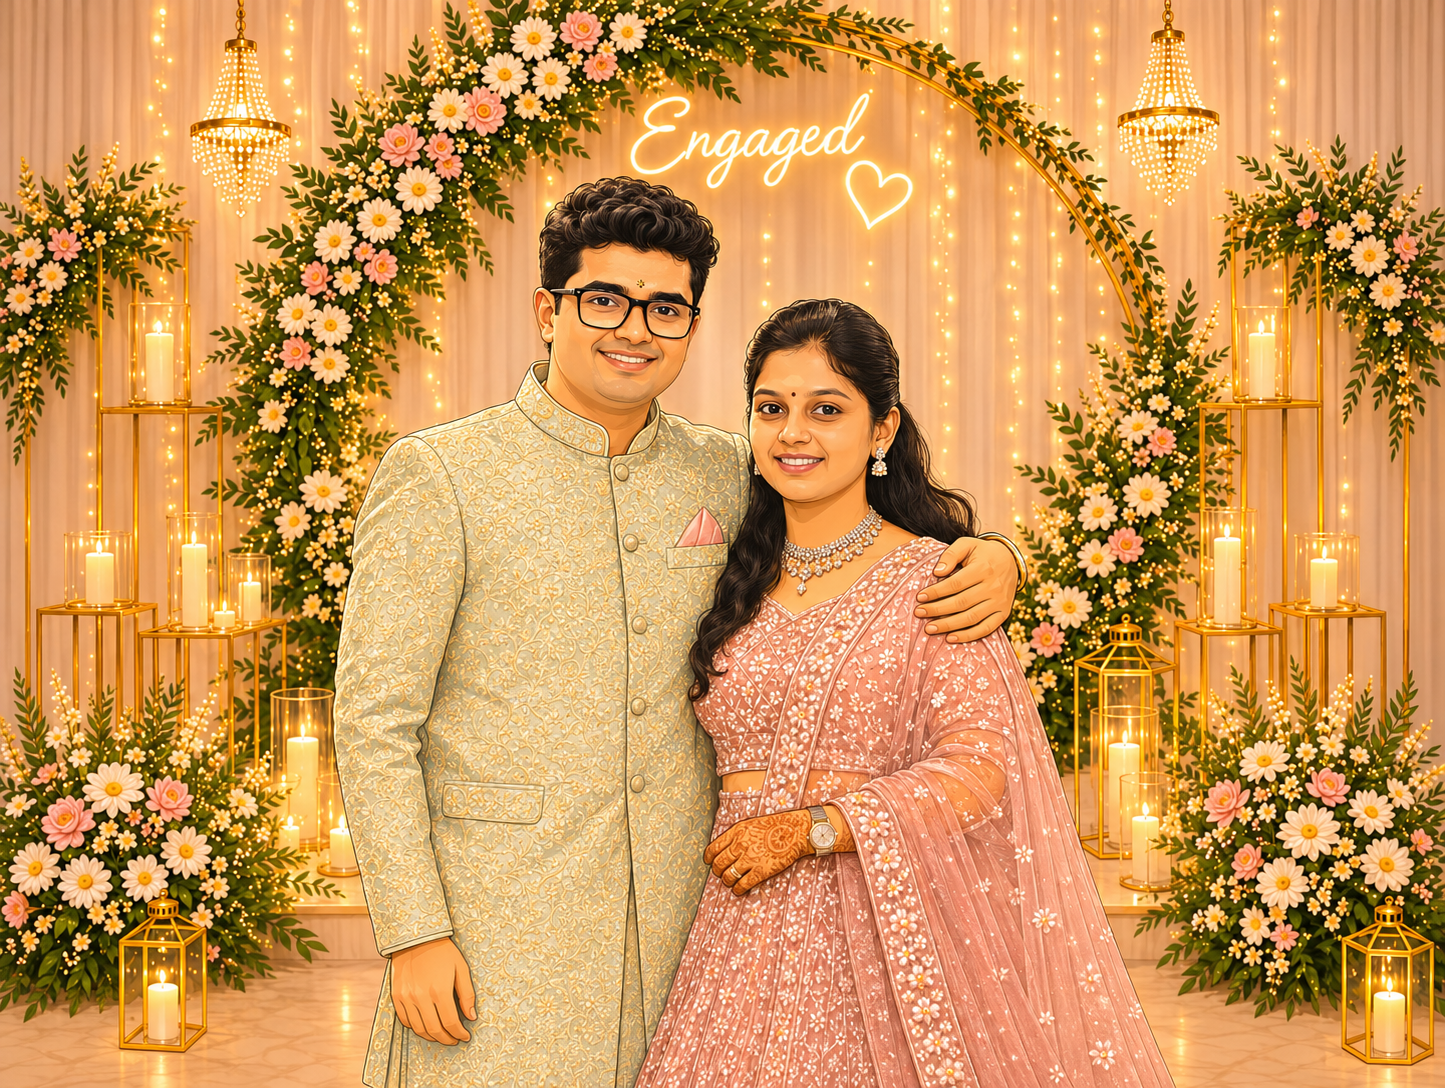
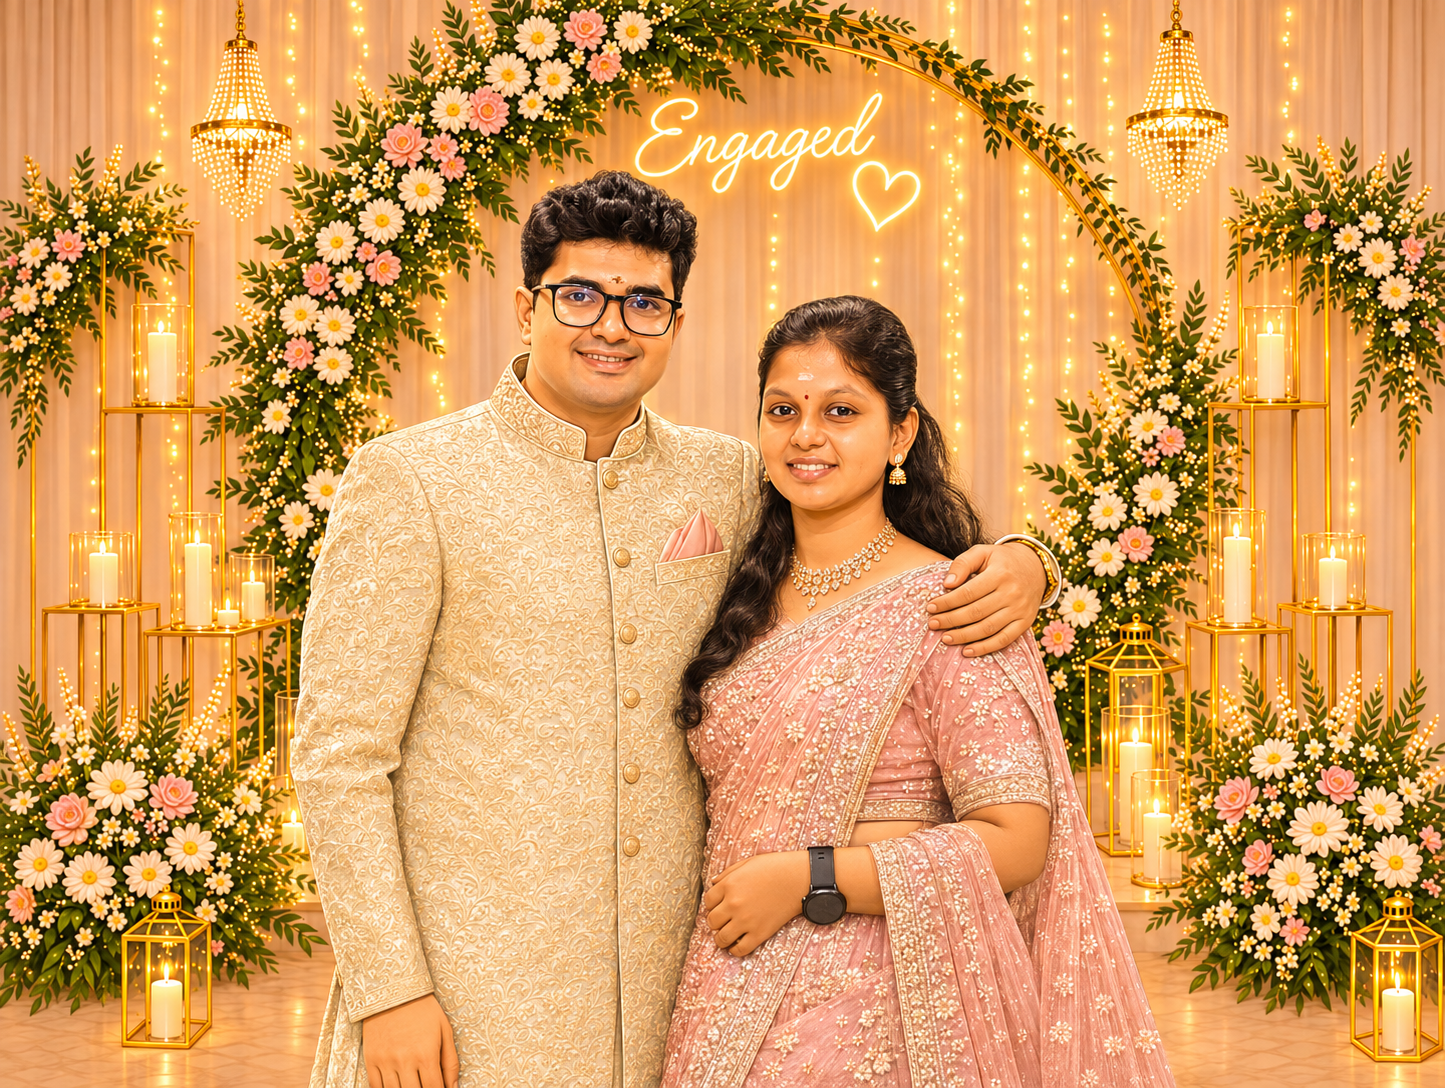
hanuman added

diff --git a/src/components/HeroSection.tsx b/src/components/HeroSection.tsx
@@ -1,6 +1,6 @@
-import React, { useState } from 'react';
+import React, { useState, useRef } from 'react';
 import { motion, AnimatePresence } from 'framer-motion';
-import { Sparkles, Eye, X, Film, Layers } from 'lucide-react';
+import { Sparkles, Eye, X, Film, RotateCw } from 'lucide-react';
 import { weddingConfig } from '../config/wedding';
 import { FloatingPetals } from './ui/FloatingPetals';
 
@@ -8,12 +8,100 @@ export const HeroSection: React.FC = () => {
   const { couple, invocation, dates } = weddingConfig;
   const [showLightbox, setShowLightbox] = useState(false);
   const [showAnimeModal, setShowAnimeModal] = useState(false);
-  const [activeCardSide, setActiveCardSide] = useState<'front' | 'back'>('front');
+  const [isFlipped, setIsFlipped] = useState(false);
 
   const frontCardImage = '/assets/images/invitation-card.jpg';
   const backCardImage = '/assets/images/invitation-card-back.jpg';
-  const currentCardImage = activeCardSide === 'front' ? frontCardImage : backCardImage;
+  const currentCardImage = isFlipped ? backCardImage : frontCardImage;
   const animeVideoSrc = couple.animeVideo || '/assets/images/couple-namaste.gif';
+
+  // Swipe / Drag gesture tracking for mobile touch & desktop mouse
+  const touchStartXRef = useRef<number | null>(null);
+  const touchStartYRef = useRef<number | null>(null);
+  const isMouseDownRef = useRef<boolean>(false);
+  const mouseStartXRef = useRef<number | null>(null);
+  const mouseStartYRef = useRef<number | null>(null);
+  const hasSwipedRef = useRef<boolean>(false);
+
+  const SWIPE_THRESHOLD = 45; // pixels needed to trigger 3D flip
+
+  // Touch handlers
+  const handleTouchStart = (e: React.TouchEvent) => {
+    touchStartXRef.current = e.touches[0].clientX;
+    touchStartYRef.current = e.touches[0].clientY;
+    hasSwipedRef.current = false;
+  };
+
+  const handleTouchMove = (e: React.TouchEvent) => {
+    if (touchStartXRef.current === null || touchStartYRef.current === null) return;
+    const currentX = e.touches[0].clientX;
+    const currentY = e.touches[0].clientY;
+    const deltaX = currentX - touchStartXRef.current;
+    const deltaY = currentY - touchStartYRef.current;
+
+    // Detect predominantly horizontal swipe
+    if (Math.abs(deltaX) > Math.abs(deltaY) && Math.abs(deltaX) > SWIPE_THRESHOLD) {
+      if (!hasSwipedRef.current) {
+        if (deltaX > SWIPE_THRESHOLD && !isFlipped) {
+          // Swipe RIGHT -> flip to back (Page 2)
+          setIsFlipped(true);
+          hasSwipedRef.current = true;
+        } else if (deltaX < -SWIPE_THRESHOLD && isFlipped) {
+          // Swipe LEFT -> flip back to front (Page 1)
+          setIsFlipped(false);
+          hasSwipedRef.current = true;
+        }
+      }
+    }
+  };
+
+  const handleTouchEnd = () => {
+    touchStartXRef.current = null;
+    touchStartYRef.current = null;
+    hasSwipedRef.current = false;
+  };
+
+  // Mouse drag handlers for desktop
+  const handleMouseDown = (e: React.MouseEvent) => {
+    isMouseDownRef.current = true;
+    mouseStartXRef.current = e.clientX;
+    mouseStartYRef.current = e.clientY;
+    hasSwipedRef.current = false;
+  };
+
+  const handleMouseMove = (e: React.MouseEvent) => {
+    if (!isMouseDownRef.current || mouseStartXRef.current === null || mouseStartYRef.current === null) return;
+    const deltaX = e.clientX - mouseStartXRef.current;
+    const deltaY = e.clientY - mouseStartYRef.current;
+
+    if (Math.abs(deltaX) > Math.abs(deltaY) && Math.abs(deltaX) > SWIPE_THRESHOLD) {
+      if (!hasSwipedRef.current) {
+        if (deltaX > SWIPE_THRESHOLD && !isFlipped) {
+          // Swipe RIGHT -> flip to back (Page 2)
+          setIsFlipped(true);
+          hasSwipedRef.current = true;
+        } else if (deltaX < -SWIPE_THRESHOLD && isFlipped) {
+          // Swipe LEFT -> flip back to front (Page 1)
+          setIsFlipped(false);
+          hasSwipedRef.current = true;
+        }
+      }
+    }
+  };
+
+  const handleMouseUp = () => {
+    isMouseDownRef.current = false;
+    mouseStartXRef.current = null;
+    mouseStartYRef.current = null;
+    hasSwipedRef.current = false;
+  };
+
+  // Card click toggle (when clicked without significant dragging)
+  const handleCardClick = () => {
+    if (!hasSwipedRef.current) {
+      setIsFlipped((prev) => !prev);
+    }
+  };
 
   return (
     <section className="relative min-h-[92vh] flex flex-col items-center justify-center pt-10 pb-20 md:pt-16 md:pb-28 px-4 overflow-hidden bg-transparent">
@@ -148,14 +236,14 @@ export const HeroSection: React.FC = () => {
           </div>
         </motion.div>
 
-        {/* 4. Prominent Invitation Card Section with 2-Page Switcher (Req #3) */}
+        {/* 4. 3D Two-Sided Flip Invitation Card with Swipe/Drag Interaction */}
         <motion.div
           initial={{ opacity: 0, y: 30 }}
           animate={{ opacity: 1, y: 0 }}
           transition={{ delay: 1.9, duration: 1.1, ease: [0.16, 1, 0.3, 1] }}
-          className="relative w-full max-w-xl mx-auto px-4 mb-8"
+          className="relative w-full max-w-lg mx-auto px-2 sm:px-4 mb-8"
         >
-          {/* Card Label & Page Switcher */}
+          {/* Card Label & Flip Status Indicator */}
           <div className="flex flex-col sm:flex-row items-center justify-between gap-3 mb-4 px-2">
             <div className="flex items-center gap-2">
               <Sparkles className="w-4 h-4 text-[#C68A4C]" />
@@ -169,56 +257,140 @@ export const HeroSection: React.FC = () => {
               </div>
             </div>
 
-            {/* Front / Back Card Switcher Tabs */}
-            <div className="flex items-center gap-1.5 p-1 rounded-full bg-[#EFE4CF] border border-[#C68A4C]/40 text-xs font-tamil">
-              <button
-                type="button"
-                onClick={() => setActiveCardSide('front')}
-                className={`px-3.5 py-1.5 rounded-full transition-all font-semibold ${
-                  activeCardSide === 'front'
-                    ? 'bg-[#B8860B] text-white shadow-md'
-                    : 'text-[#5C2D0C] hover:text-[#B8860B]'
-                }`}
-              >
-                பக்கம் 1 (மணமக்கள்)
-              </button>
-              <button
-                type="button"
-                onClick={() => setActiveCardSide('back')}
-                className={`px-3.5 py-1.5 rounded-full transition-all font-semibold ${
-                  activeCardSide === 'back'
-                    ? 'bg-[#B8860B] text-white shadow-md'
-                    : 'text-[#5C2D0C] hover:text-[#B8860B]'
-                }`}
-              >
-                பக்கம் 2 (நிகழ்வுகள்)
-              </button>
-            </div>
+            {/* Interactive Flip Status & Click Toggle */}
+            <button
+              type="button"
+              onClick={() => setIsFlipped((prev) => !prev)}
+              className="inline-flex items-center gap-2 px-4 py-1.5 rounded-full bg-[#FAF0DC] hover:bg-[#F5E6CC] border border-[#C68A4C]/60 text-xs font-tamil text-[#5C2D0C] shadow-sm transition-all group"
+              title="அட்டையைத் திருப்ப கிளிக் செய்க (Click to Flip Card)"
+            >
+              <RotateCw className="w-3.5 h-3.5 text-[#8C4A15] group-hover:rotate-180 transition-transform duration-500" />
+              <span className="font-bold">
+                பக்கம் {isFlipped ? '2 / 2 (நிகழ்வுகள்)' : '1 / 2 (மணமக்கள்)'}
+              </span>
+            </button>
           </div>
 
-          {/* Invitation Card Display Frame */}
+          {/* 3D Flip Card Container (Perspective viewport) */}
           <div
-            onClick={() => setShowLightbox(true)}
-            className="cursor-pointer group relative rounded-3xl overflow-hidden border-2 border-[#C68A4C]/70 shadow-[0_18px_50px_rgba(117,59,18,0.18)] bg-[#FFFDF8]"
+            className="relative w-full aspect-[3/4] select-none touch-pan-y"
+            style={{ perspective: '1200px' }}
+            onTouchStart={handleTouchStart}
+            onTouchMove={handleTouchMove}
+            onTouchEnd={handleTouchEnd}
+            onMouseDown={handleMouseDown}
+            onMouseMove={handleMouseMove}
+            onMouseUp={handleMouseUp}
+            onMouseLeave={handleMouseUp}
           >
-            <div className="aspect-[3/4] sm:aspect-[3/4] w-full bg-[#FAF3E3] relative overflow-hidden flex items-center justify-center">
-              <img
-                src={currentCardImage}
-                alt="Madhuprasad & Priyadharshini Wedding Invitation Card"
-                className="w-full h-full object-contain object-center group-hover:scale-[1.02] transition-transform duration-700 ease-out select-none"
-              />
+            {/* Centered Flip Axis Inner Wrapper (preserves 3D transform) */}
+            <div
+              onClick={handleCardClick}
+              className="relative w-full h-full cursor-grab active:cursor-grabbing transition-transform duration-[850ms]"
+              style={{
+                transformStyle: 'preserve-3d',
+                WebkitTransformStyle: 'preserve-3d',
+                transform: isFlipped ? 'rotateY(180deg)' : 'rotateY(0deg)',
+                transitionTimingFunction: 'cubic-bezier(0.4, 0, 0.2, 1)',
+              }}
+            >
+              {/* FRONT FACE: Page 1 (மணமக்கள்) */}
+              <div
+                className="absolute inset-0 w-full h-full rounded-3xl overflow-hidden border-2 border-[#C68A4C]/70 shadow-[0_18px_50px_rgba(117,59,18,0.18)] bg-[#FFFDF8]"
+                style={{
+                  backfaceVisibility: 'hidden',
+                  WebkitBackfaceVisibility: 'hidden',
+                  transform: 'rotateY(0deg)',
+                }}
+              >
+                <div className="w-full h-full bg-[#FAF3E3] relative flex items-center justify-center overflow-hidden">
+                  <img
+                    src={frontCardImage}
+                    alt="Madhuprasad & Priyadharshini Wedding Invitation Card - Front"
+                    className="w-full h-full object-contain object-center pointer-events-none select-none"
+                    draggable={false}
+                  />
 
-              {/* Hover overlay hint */}
-              <div className="absolute inset-0 bg-[#381F0D]/30 opacity-0 group-hover:opacity-100 transition-opacity flex items-center justify-center">
-                <span className="px-5 py-2.5 rounded-full bg-[#FFFDF8] text-[#5C2D0C] font-bold text-xs uppercase tracking-wider font-tamil shadow-2xl border border-[#C68A4C]">
-                  பெரிதாகக் காண தொடவும் (Click to Zoom)
-                </span>
+                  {/* Corner Gold Flourish */}
+                  <div className="absolute top-3 left-3 text-xs text-[#C68A4C]/60 select-none pointer-events-none">❖</div>
+                  <div className="absolute bottom-3 left-3 text-xs text-[#C68A4C]/60 select-none pointer-events-none">❖</div>
+
+                  {/* Quick Zoom Button */}
+                  <button
+                    type="button"
+                    onClick={(e) => {
+                      e.stopPropagation();
+                      setShowLightbox(true);
+                    }}
+                    className="absolute top-3 right-3 z-10 px-3 py-1.5 rounded-full bg-[#FFFDF8]/95 hover:bg-[#C68A4C] hover:text-[#FFFDF8] text-[#5C2D0C] text-xs font-tamil font-bold border border-[#C68A4C] shadow-md flex items-center gap-1.5 transition-colors"
+                    title="பெரிதாகக் காண (Zoom)"
+                  >
+                    <Eye className="w-3.5 h-3.5" />
+                    <span className="hidden sm:inline">பெரிதாகக் காண</span>
+                  </button>
+
+                  {/* Interactive Swipe Hint Banner */}
+                  <div className="absolute bottom-3 left-1/2 -translate-x-1/2 px-4 py-1 rounded-full bg-[#381F0D]/75 backdrop-blur-sm text-[#FFFDF8] text-[11px] font-tamil pointer-events-none flex items-center gap-1.5 shadow-md border border-[#C68A4C]/40">
+                    <span>வலப்புறம் இழுக்கவும் ➔ (Swipe Right to Flip)</span>
+                  </div>
+                </div>
+              </div>
+
+              {/* BACK FACE: Page 2 (நிகழ்வுகள் & மண்டபம்) */}
+              <div
+                className="absolute inset-0 w-full h-full rounded-3xl overflow-hidden border-2 border-[#C68A4C]/70 shadow-[0_18px_50px_rgba(117,59,18,0.18)] bg-[#FFFDF8]"
+                style={{
+                  backfaceVisibility: 'hidden',
+                  WebkitBackfaceVisibility: 'hidden',
+                  transform: 'rotateY(180deg)',
+                }}
+              >
+                <div className="w-full h-full bg-[#FAF3E3] relative flex items-center justify-center overflow-hidden">
+                  <img
+                    src={backCardImage}
+                    alt="Madhuprasad & Priyadharshini Wedding Invitation Card - Back"
+                    className="w-full h-full object-contain object-center pointer-events-none select-none"
+                    draggable={false}
+                  />
+
+                  {/* Corner Gold Flourish */}
+                  <div className="absolute top-3 left-3 text-xs text-[#C68A4C]/60 select-none pointer-events-none">❖</div>
+                  <div className="absolute bottom-3 left-3 text-xs text-[#C68A4C]/60 select-none pointer-events-none">❖</div>
+
+                  {/* Quick Zoom Button */}
+                  <button
+                    type="button"
+                    onClick={(e) => {
+                      e.stopPropagation();
+                      setShowLightbox(true);
+                    }}
+                    className="absolute top-3 right-3 z-10 px-3 py-1.5 rounded-full bg-[#FFFDF8]/95 hover:bg-[#C68A4C] hover:text-[#FFFDF8] text-[#5C2D0C] text-xs font-tamil font-bold border border-[#C68A4C] shadow-md flex items-center gap-1.5 transition-colors"
+                    title="பெரிதாகக் காண (Zoom)"
+                  >
+                    <Eye className="w-3.5 h-3.5" />
+                    <span className="hidden sm:inline">பெரிதாகக் காண</span>
+                  </button>
+
+                  {/* Interactive Swipe Hint Banner */}
+                  <div className="absolute bottom-3 left-1/2 -translate-x-1/2 px-4 py-1 rounded-full bg-[#381F0D]/75 backdrop-blur-sm text-[#FFFDF8] text-[11px] font-tamil pointer-events-none flex items-center gap-1.5 shadow-md border border-[#C68A4C]/40">
+                    <span>◀ இடப்புறம் இழுக்கவும் (Swipe Left to Flip)</span>
+                  </div>
+                </div>
               </div>
             </div>
           </div>
 
+          {/* Swipe / Click helper note below card */}
+          <div className="mt-3 text-center">
+            <p className="font-tamil text-xs text-[#7A4B22] font-medium">
+              {isFlipped
+                ? '◀ இடப்புறம் இழுக்க அல்லது தொட, முன் பக்கம் திரும்பும்'
+                : 'வலப்புறம் இழுக்க அல்லது தொட, பின் பக்கம் திரும்பும் ➔'}
+            </p>
+          </div>
+
           {/* 3-5 Sec Anime Video Button (Req #2) */}
-          <div className="mt-5 flex justify-center">
+          <div className="mt-4 flex justify-center">
             <button
               type="button"
               onClick={() => setShowAnimeModal(true)}
@@ -246,13 +418,33 @@ export const HeroSection: React.FC = () => {
             className="fixed inset-0 z-50 flex items-center justify-center bg-black/85 p-3 sm:p-6 backdrop-blur-md"
             onClick={() => setShowLightbox(false)}
           >
+            {/* Close Button */}
             <button
               type="button"
               onClick={() => setShowLightbox(false)}
               className="absolute top-6 right-6 w-12 h-12 rounded-full bg-[#FFFDF8] border border-[#C68A4C] text-[#5C2D0C] flex items-center justify-center hover:bg-[#C68A4C] hover:text-[#FFFDF8] transition-colors shadow-2xl z-10"
+              aria-label="Close"
             >
               <X className="w-6 h-6" />
             </button>
+
+            {/* Lightbox Side Toggle */}
+            <div
+              className="absolute top-6 left-6 z-10 flex items-center gap-2"
+              onClick={(e) => e.stopPropagation()}
+            >
+              <button
+                type="button"
+                onClick={() => setIsFlipped((prev) => !prev)}
+                className="px-4 py-2 rounded-full bg-[#FFFDF8] border border-[#C68A4C] text-[#5C2D0C] text-xs font-tamil font-bold shadow-lg flex items-center gap-2 hover:bg-[#C68A4C] hover:text-[#FFFDF8] transition-colors"
+              >
+                <RotateCw className="w-3.5 h-3.5 text-[#8C4A15]" />
+                <span>
+                  {isFlipped ? 'பக்கம் 1 காண்க (Front)' : 'பக்கம் 2 காண்க (Back)'}
+                </span>
+              </button>
+            </div>
+
             <div
               className="max-w-2xl max-h-[92vh] overflow-hidden rounded-2xl border-2 border-[#C68A4C] shadow-2xl bg-[#FFFDF8]"
               onClick={(e) => e.stopPropagation()}

diff --git a/src/config/wedding.ts b/src/config/wedding.ts
@@ -170,7 +170,7 @@ export const weddingConfig: WeddingConfig = {
     title: "ஸ்ரீ அனுமன் இதயத்தில் தெய்வீக தம்பதியர்",
     tamilTitle: "ராம பக்தன் ஸ்ரீ அனுமன் ஆசி",
     subtitle: "Ajay as Lord Hanuman Revealing the Couple in His Heart",
-    image: "/assets/images/ajay-hanuman.jpg",
+    image: "/assets/images/ajay-hanuman.gif",
     caption:
       "நெஞ்சைத் திறந்து சீதா ராமரைக் காட்டிய பக்த அனுமன் போல், இதயத்தில் நிறைந்து அருள் பாலிக்கும் தெய்வீகப் பாதுகாப்பு & பேரன்பு.",
     tamilVerse:
